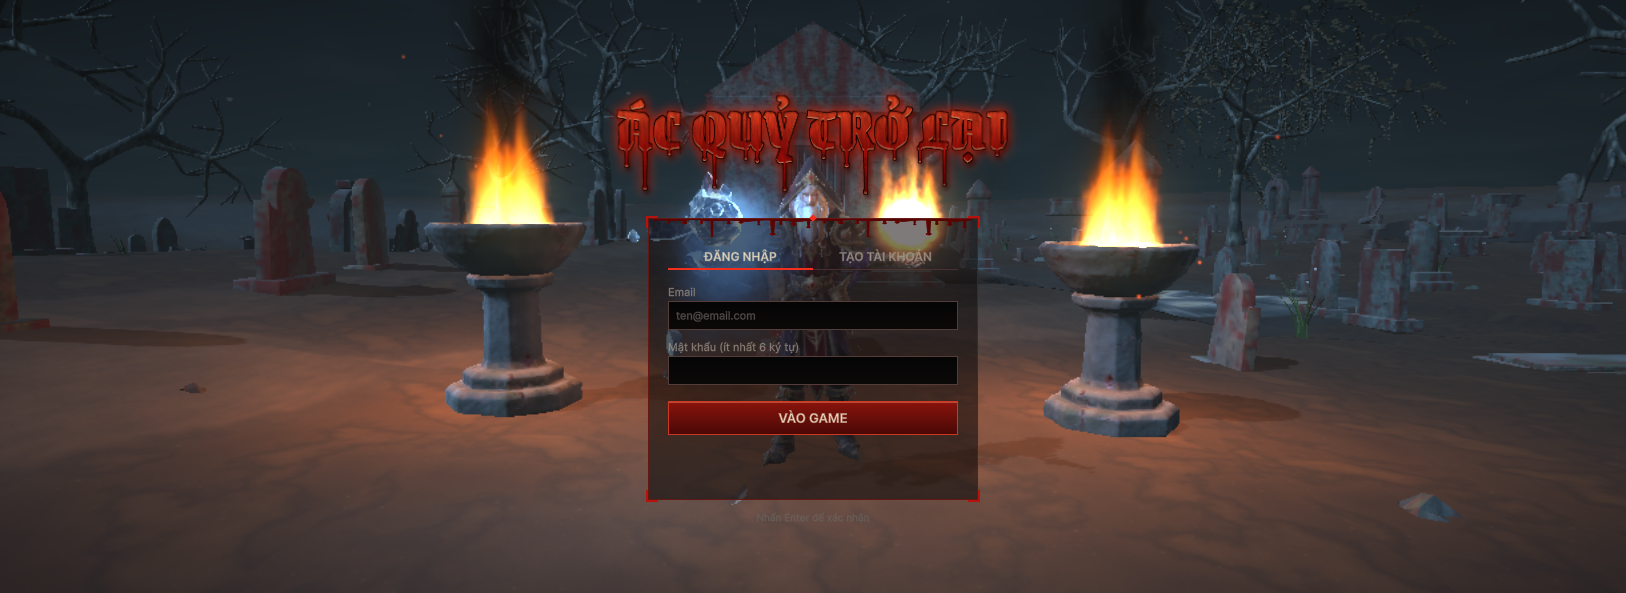
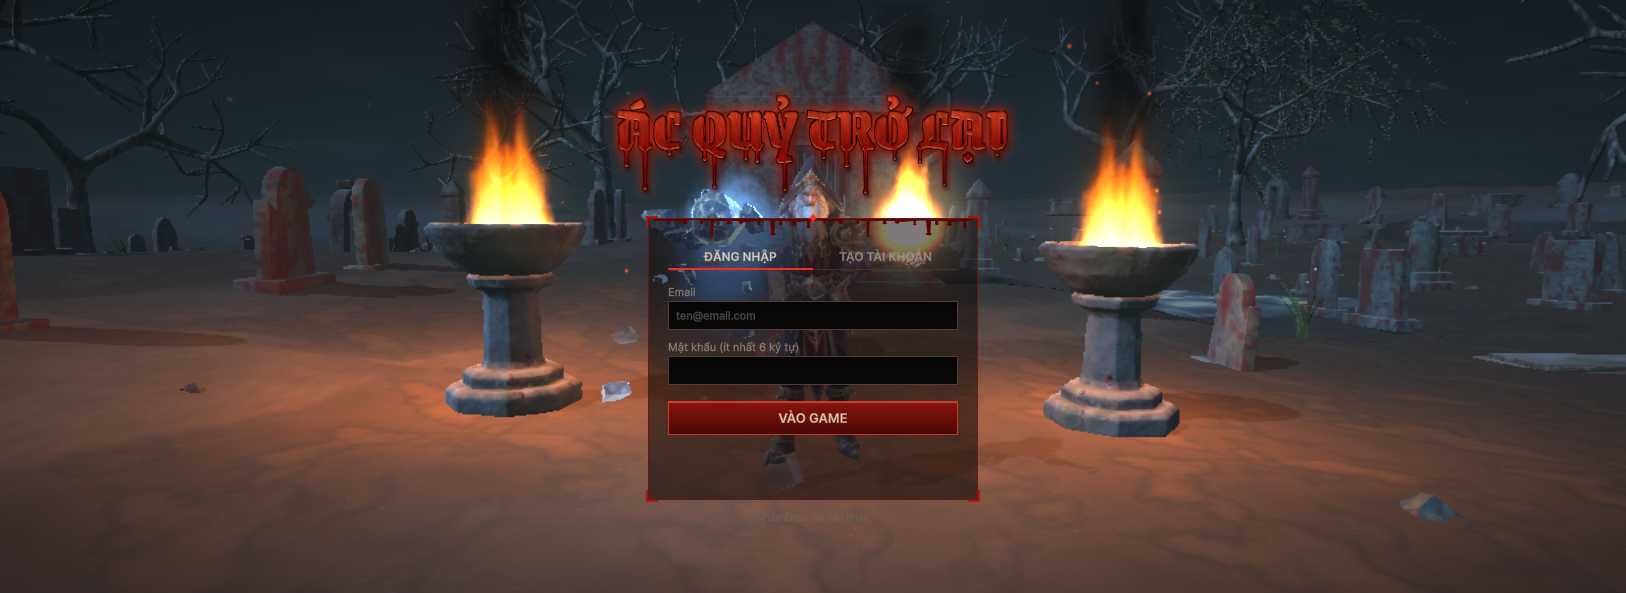
Man chinh: qua cau lua tren tay them LUA GIUA TAM (lop ngon lua that goc 0,3 r, 26/giay - giu lua hai ben) + KHOI DEN boc len tu dinh qua cau (flipbook khoi cuon xam den, the gioi, 9/giay) - nguoi dung; menu 101c: 8 ngon giua goc <= 0,30 r, khoi 15/15 tren qua cau dang boc len cao toi 0,87 m, sang m

diff --git a/Assets/Scripts/UI/TuTheTrungBay.cs b/Assets/Scripts/UI/TuTheTrungBay.cs
@@ -32,6 +32,57 @@ public class TuTheTrungBay : MonoBehaviour
     /// <summary>Goc ngon lua nam tren mat cau ban kinh BanKinhCau x BanKinhGocLua (sat mat loi lua sang).</summary>
     public const float BanKinhGocLua = 0.85f;
 
+    /// <summary>Lop lua GIUA: goc lua trong long qua cau ban kinh BanKinhCau x BanKinhLuaGiua, so ngon moi giay.</summary>
+    public const float BanKinhLuaGiua = 0.3f, LuaGiuaMoiGiay = 26f;
+
+    /// <summary>Khoi den boc len tu qua cau lua: hat / giay, toc boc len (m/s).</summary>
+    public const float KhoiDenMoiGiay = 9f, TocKhoiLen = 0.55f;
+
+    /// <summary>
+    /// KHOI DEN BOC LEN tu qua cau lua (nguoi dung 04/10/2026: "them 1 it hieu ung khoi den bay len tu qua cau lua"): flipbook khoi cuon
+    /// (KhoiCuon 6x6) mau xam den, sinh o dinh qua cau, KHONG GIAN THE GIOI (boc len thanh lan, qua cau nhap nho / nhan vat xoay thi khoi
+    /// o lai troi len nhu khoi that), no to dan roi tan. Lop "Smoke" cu cua hinh qua cau giu nguyen.
+    /// </summary>
+    static void TaoKhoiDen(Transform cau)
+    {
+        var mat = VfxFactory.KhoiCuonMat;
+        if (mat == null) return;
+        var go = new GameObject("KhoiDenBocLen");
+        go.transform.SetParent(cau, false);
+        go.transform.localPosition = Vector3.up * BanKinhCau * 0.8f;
+        var ps = go.AddComponent<ParticleSystem>();
+        ps.Stop(true, ParticleSystemStopBehavior.StopEmittingAndClear);
+        var m = ps.main;
+        m.loop = true; m.playOnAwake = true;
+        m.startLifetime = new ParticleSystem.MinMaxCurve(1.3f, 1.9f);
+        m.startSpeed = 0f;
+        m.startSize = new ParticleSystem.MinMaxCurve(BanKinhCau * 1.0f, BanKinhCau * 1.6f);
+        m.startRotation = new ParticleSystem.MinMaxCurve(0f, Mathf.PI * 2f);
+        m.startColor = new ParticleSystem.MinMaxGradient(new Color(0.05f, 0.045f, 0.04f, 0.50f), new Color(0.11f, 0.10f, 0.09f, 0.65f));
+        m.simulationSpace = ParticleSystemSimulationSpace.World;
+        m.maxParticles = 30;
+        var e = ps.emission; e.rateOverTime = KhoiDenMoiGiay;
+        var sh = ps.shape; sh.shapeType = ParticleSystemShapeType.Sphere; sh.radius = BanKinhCau * 0.35f;
+        // Moi truc van toc CUNG kieu TwoConstants (lech kieu la Unity bo ca mo-dun)
+        var v = ps.velocityOverLifetime; v.enabled = true; v.space = ParticleSystemSimulationSpace.World;
+        v.x = new ParticleSystem.MinMaxCurve(-0.06f, 0.06f);
+        v.y = new ParticleSystem.MinMaxCurve(TocKhoiLen * 0.8f, TocKhoiLen * 1.25f);
+        v.z = new ParticleSystem.MinMaxCurve(-0.06f, 0.06f);
+        var sol = ps.sizeOverLifetime; sol.enabled = true;
+        sol.size = new ParticleSystem.MinMaxCurve(1f, new AnimationCurve(new Keyframe(0f, 0.6f), new Keyframe(1f, 3.2f)));
+        var col = ps.colorOverLifetime; col.enabled = true;
+        var g = new Gradient();
+        g.SetKeys(new[] { new GradientColorKey(Color.white, 0f), new GradientColorKey(Color.white, 1f) },
+                  new[] { new GradientAlphaKey(0f, 0f), new GradientAlphaKey(1f, 0.15f), new GradientAlphaKey(0.6f, 0.6f), new GradientAlphaKey(0f, 1f) });
+        col.color = new ParticleSystem.MinMaxGradient(g);
+        var rot = ps.rotationOverLifetime; rot.enabled = true; rot.z = new ParticleSystem.MinMaxCurve(-0.6f, 0.6f);
+        var r = go.GetComponent<ParticleSystemRenderer>();
+        r.sharedMaterial = mat;
+        r.renderMode = ParticleSystemRenderMode.Billboard;
+        VfxFactory.BatFlipbook(ps, 6, 6, 1);
+        ps.Play();
+    }
+
     /// <summary>Nhan vat vao tu the trong bao lau (giay).</summary>
     public const float GiayVaoTuThe = 0.8f;
 
@@ -85,6 +136,19 @@ public class TuTheTrungBay : MonoBehaviour
             var sh = ps.shape; sh.shapeType = ParticleSystemShapeType.Sphere; sh.radius = BanKinhCau * BanKinhGocLua; sh.radiusThickness = 0f;
             var nz = ps.noise; nz.enabled = false;
         }
+        // LUA GIUA TAM (nguoi dung 04/10/2026: "lua chay qua 2 ben nhieu qua - giu luong lua 2 ben, tang lua o GIUA tam qua cau"): them
+        // mot lop ngon lua that nhan ban tu lop Flames da chinh, goc lua gom vao long qua cau (ban kinh 0,3 r) -> ngon lua moc tu giua
+        // liem len qua dinh qua cau; hai lop cu giu nguyen.
+        if (loi != null)
+        {
+            var giua = Instantiate(loi.gameObject, goLua.transform, false);
+            giua.name = "LuaGiua";
+            var ps = giua.GetComponent<ParticleSystem>();
+            var sh = ps.shape; sh.radius = BanKinhCau * BanKinhLuaGiua;
+            var e = ps.emission; e.rateOverTime = LuaGiuaMoiGiay;
+            ps.Play();
+        }
+        TaoKhoiDen(goLua.transform);
         foreach (var goCau in new[] { goLua, goBang })
             foreach (var lt in goCau.GetComponentsInChildren<Light>(true))
             {

diff --git a/Assets/Editor/ThuTayTrungBay.cs b/Assets/Editor/ThuTayTrungBay.cs
@@ -221,6 +221,34 @@ public static class ThuTayTrungBay
                 sb.AppendLine(string.Format("Lua bam qua cau: {0} ngon lua, goc xa tam qua cau nhat {1:F3} m ({2:F2} ban kinh cau), toc do lon nhat {3:F3} m/s",
                     soHatLua, xaMax, xaMax / TuTheTrungBay.BanKinhCau, tocMax));
                 kiem(soHatLua > 10 && xaMax <= TuTheTrungBay.BanKinhCau * 1.0f && tocMax < 0.05f, "ngon lua tach khoi qua cau, bay lo lung");
+                // LUA GIUA + KHOI DEN (04/10/2026): goc lua giua nam trong long qua cau; khoi den o TREN qua cau va dang boc LEN
+                {
+                    var tg = lua.transform.Find("LuaGiua"); var psG = tg != null ? tg.GetComponent<ParticleSystem>() : null;
+                    int nG = 0; float xaG = 0f;
+                    if (psG != null)
+                    {
+                        var arr = new ParticleSystem.Particle[psG.particleCount]; nG = psG.GetParticles(arr);
+                        for (int i = 0; i < nG; i++) xaG = Mathf.Max(xaG, Vector3.Distance(tg.TransformPoint(arr[i].position), lua.transform.position));
+                    }
+                    var tk = lua.transform.Find("KhoiDenBocLen"); var psK = tk != null ? tk.GetComponent<ParticleSystem>() : null;
+                    int nK = 0, khoiTren = 0, khoiLen = 0; float caoK = 0f;
+                    if (psK != null)
+                    {
+                        var arr = new ParticleSystem.Particle[psK.particleCount]; nK = psK.GetParticles(arr);
+                        for (int i = 0; i < nK; i++)
+                        {
+                            float dy = arr[i].position.y - lua.transform.position.y;   // khong gian the gioi
+                            if (dy > 0f) khoiTren++;
+                            if (arr[i].totalVelocity.y > 0.2f) khoiLen++;
+                            caoK = Mathf.Max(caoK, dy);
+                        }
+                    }
+                    float sangK = psK != null ? 0.299f * psK.main.startColor.colorMax.r + 0.587f * psK.main.startColor.colorMax.g + 0.114f * psK.main.startColor.colorMax.b : 1f;
+                    sb.AppendLine(string.Format("Lua GIUA: {0} ngon, goc xa tam nhat {1:F3} m ({2:F2} r) | Khoi den: {3} lan, {4} tren qua cau, {5} dang boc len, cao nhat {6:F2} m tren tam, do sang mau {7:F2}",
+                        nG, xaG, xaG / TuTheTrungBay.BanKinhCau, nK, khoiTren, khoiLen, caoK, sangK));
+                    kiem(nG >= 5 && xaG <= TuTheTrungBay.BanKinhCau * 0.35f, "thieu lua o giua tam qua cau");
+                    kiem(nK >= 5 && khoiTren == nK && khoiLen >= nK * 0.9f && caoK > 0.4f && sangK < 0.2f, "khong co khoi DEN boc len tu qua cau");
+                }
                 kiem(ngonThat == 2, "tan lua / lua loi tren tay chua phai ngon lua that");
             }
             string anh = "PlayTestShots/tay_trungbay_man_chinh.png";

diff --git a/HUONG-DAN.md b/HUONG-DAN.md
@@ -9143,6 +9143,11 @@ Blender dựng lại các vết lửa này cho thật giống ngọn lửa thậ
   trên tay — trong trận giữ đuôi lửa khi bay 17 m/s): `Sparks` + `Flames` trên tay mô phỏng **cục bộ** (đi theo quả cầu khi nhấp nhô / nhân vật
   xoay), không vận tốc, không bốc lên, tắt nhiễu, gốc mọi ngọn lửa trên mặt cầu 0,85 bán kính. Menu 101c đo vị trí thật: 19 ngọn lửa, gốc xa tâm
   nhất **0,85 bán kính**, tốc độ lớn nhất **0** — 0 lỗi.
+- **Thêm lửa giữa tâm + khói đen** (người dùng gửi ảnh: "trong hình đang cháy qua 2 bên nhiều quá — vẫn giữ lượng lửa cháy qua 2 bên, nhưng tăng
+  vết lửa ở giữa trung tâm quả cầu"; "thêm 1 ít hiệu ứng khói đen bay lên"): lớp `LuaGiua` (nhân bản lớp lửa lõi đã chỉnh, gốc lửa gom vào lòng
+  cầu 0,3 bán kính, 26 ngọn/giây — ngọn lửa mọc từ giữa liếm lên qua đỉnh cầu; hai lớp cũ giữ nguyên) và `KhoiDenBocLen` (flipbook khói cuộn xám
+  đen, sinh ở đỉnh cầu, mô phỏng THẾ GIỚI để bốc thành làn như khói thật, 0,44–0,69 m/s, 9 làn/giây, nở ×3,2 rồi tan). Menu 101c (0 lỗi): 8 ngọn
+  lửa giữa, gốc ≤ 0,30 bán kính; khói 15 làn, 15/15 nằm trên quả cầu và đang bốc lên, cao tới 0,87 m, độ sáng màu 0,10 (đen).
 
 ### Màn chính: phù thuỷ ngửa hai tay nâng quả cầu lửa và quả cầu băng (04/10/2026)
 
